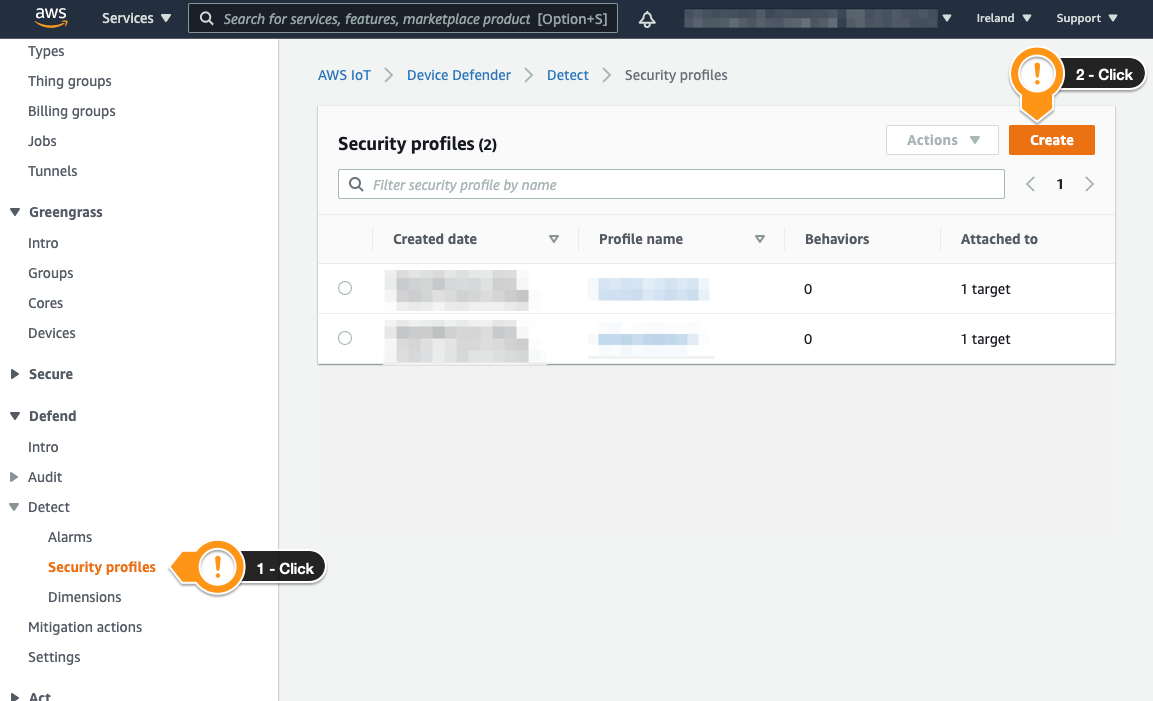
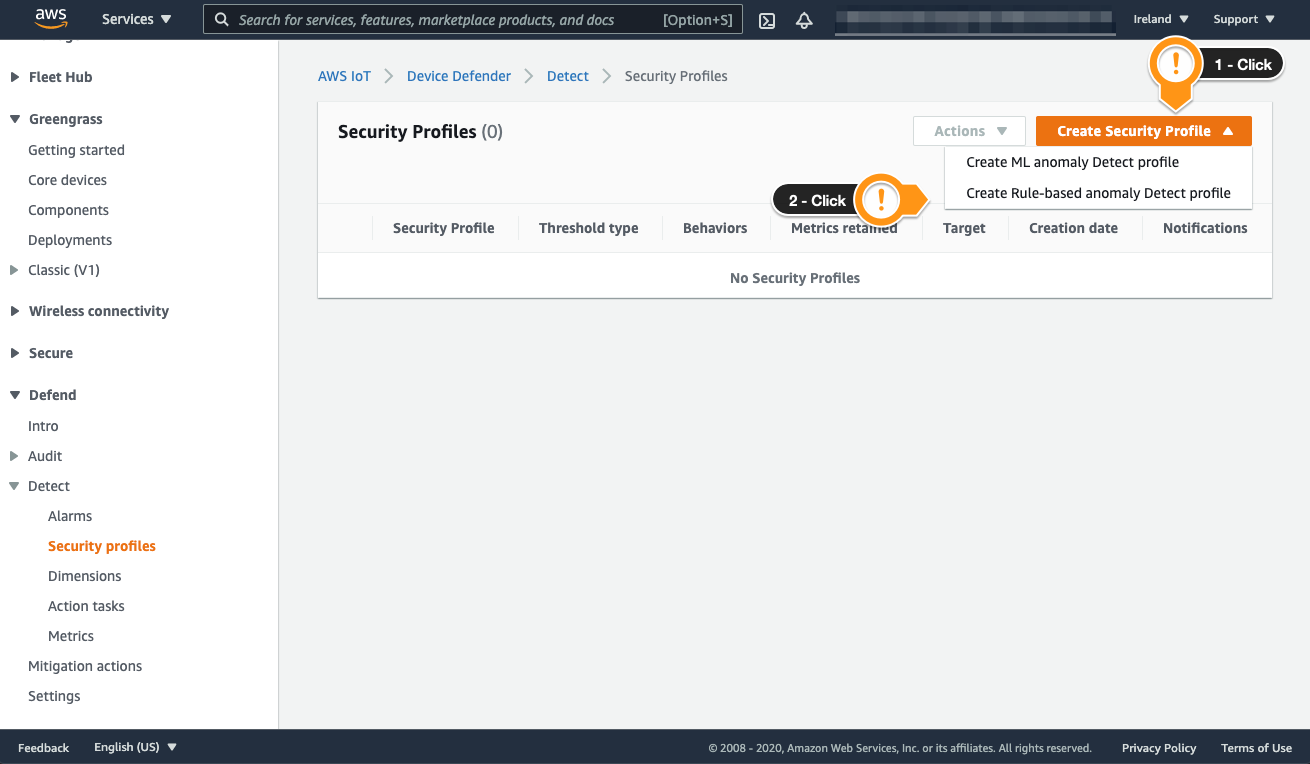
Adjusted for re:Invent 2020 launches, fix reference to aws-iot-playground

diff --git a/content/module1/040_detect_device_agent.md b/content/module1/040_detect_device_agent.md
@@ -55,7 +55,9 @@ To create a **Security Profile**, follow the steps below, which are similiar to 
 * Open the AWS IoT console
 * In the left navigation pane, choose **Defend**
 * In the left navigation pane, choose **Detect**
-* Click **Create**
+* In the left navigation pane, choose **Security profiles**
+* Click **Create Security Profile**
+* Click **Create Rule-based anomaly Detect profile**
 ![CreateSecProf](/images/30_ddd_create_secprof_01_pt1.png)
 
 In this section, you will specify the behavior that you want to monitor. For this lab, we'll want to keep track of the amount of Outbound Bytes our devices network cards send. 
@@ -73,7 +75,7 @@ For more information, you can check out this awesome blog post by Eknath: [Use A
 * Scroll to the **Behaviors** section
 * Fill the **Name** field for the first *Behavior*. Example: `OutboundBytesBehavior`
 * On the **Metric** field, choose **Bytes out**
-* On the **Operator** field, choose **More than**
+* On the **Operator** field, choose **Greater than**
 * On the **Value** field, type **35.000**
 * On the **Duration** field, choose **5 minutes**
 * Scroll down to finish the setup
@@ -102,9 +104,8 @@ On the next screen, you need to select which devices AWS IoT Device Defender Det
 * Choose **All things** 
 * Click **Next** on the bottom right
 * Scroll down and choose **Save**
-![CreateSecProf](/images/30_ddd_create_secprof_05_pt2.png)
 * Choose **Continue** to finish the setup
-![CreateSecProf](/images/30_ddd_create_secprof_06_pt2.png)
+![CreateSecProf](/images/30_ddd_create_secprof_04_pt2.png)
 
 Now, AWS IoT Device Defender is continuosly monitoring the amount of messages sent by each device. Let's check what happens when a thing starts to present an anomalous behavior.
 

diff --git a/content/module1/030_detect_mitigation.md b/content/module1/030_detect_mitigation.md
@@ -210,13 +210,13 @@ Your account has a virtual device factory that creates devices on demand. To cre
 1. Go to the root directory of the repository
 
 ```bash
-cd ~/environment/aws-iot-dd-labcode
+cd ~/environment/aws-iot-playground
 ```
 
 1. Run the the following command to start a virtual device
 
 ```bash
-./scripts/create_device.sh
+./scripts/cp-create-thing.sh generic
 ```
 
 This will start a virtual device that sends 30 messages every 5 minutes. After a 5 minutes, Device Defender should identify this anomalous behavior and send 
